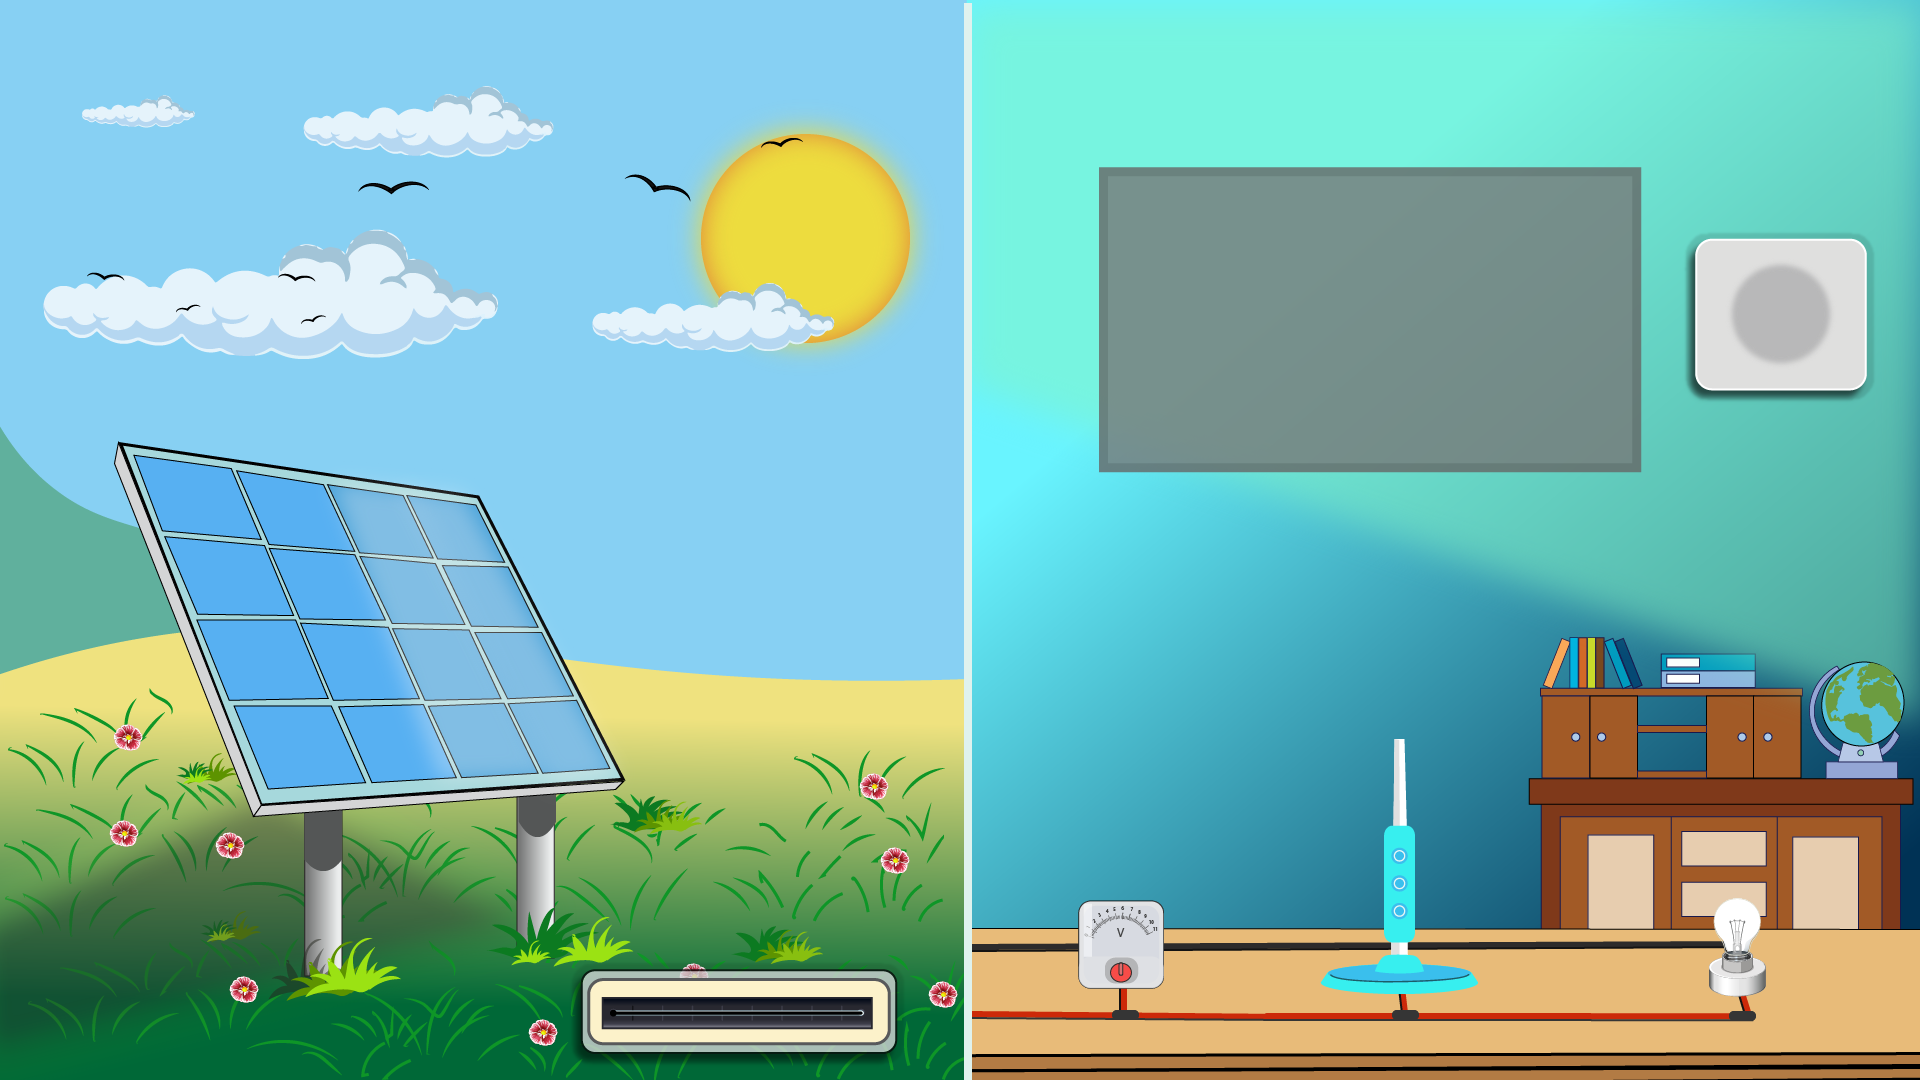
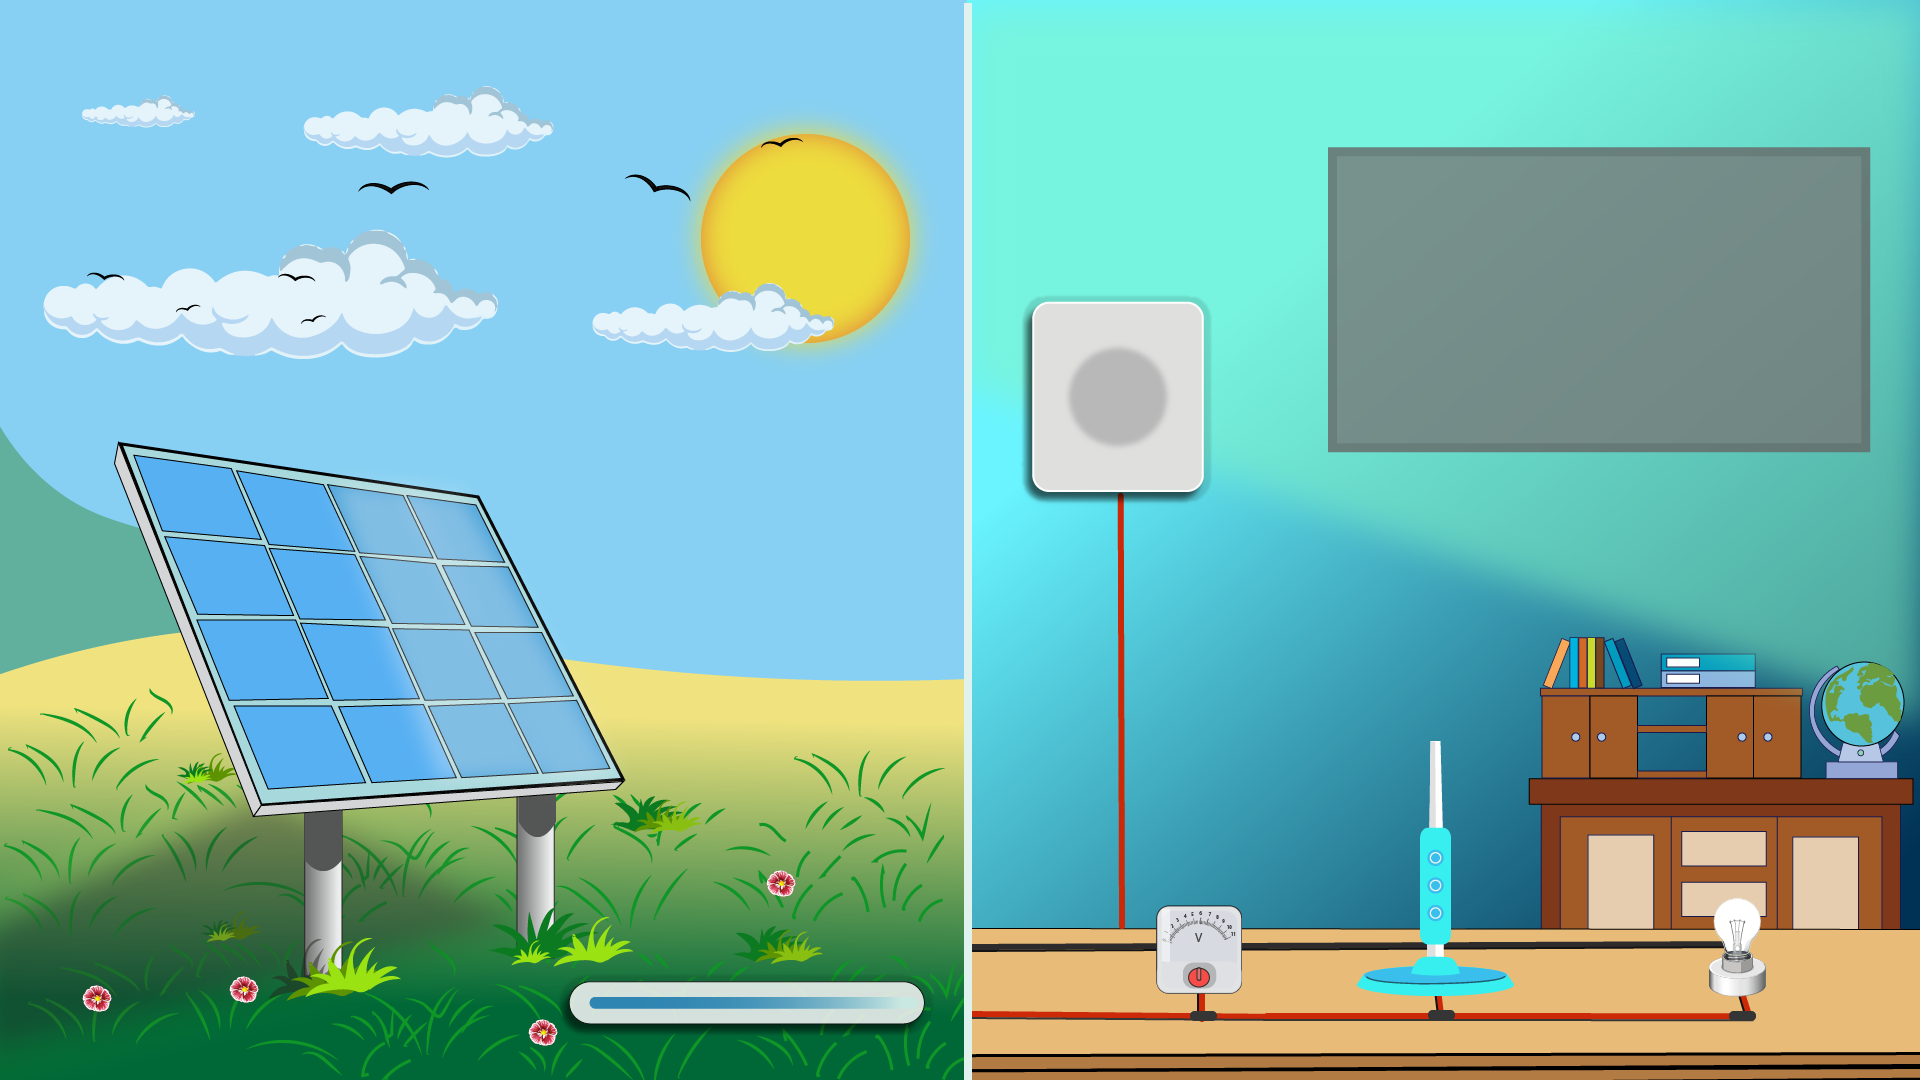
update ui

diff --git a/index.js b/index.js
@@ -6,7 +6,7 @@ frame.on("ready",()=>{
        //assets
        const bg = new Pic("assets/images/bg .png").center();
        const brightPicture = new Pic("assets/images/light.png").pos(1660,850).alp(0);
-       const fan = new Pic("assets/images/fan.png").centerReg().pos(1290,600);
+       const fan = new Pic("assets/images/fan.png").centerReg().pos(1330,600);
        //heading
        const header_rect = new Rectangle({width:W, height:120, color:"#ff7878"}).center().pos(0,0);
        const header_label = new Label (
@@ -26,7 +26,7 @@ frame.on("ready",()=>{
          rollBackgroundColor:"transparent",
          
   
-      }).center().pos(1742,270);
+      }).center().pos(1080,353);
   
       const toggolebutton = new Pic("assets/images/switch.png").center(powerBtn);
 
@@ -35,38 +35,60 @@ frame.on("ready",()=>{
    //slider for control..
    const button_slider = new Button({
        label: "",
-       width: 60,
-       height: 60,
-       backgroundColor: "red",
+       width: 75,
+       height: 75,
+       backgroundColor: "#2c67f2",
        borderWidth: 0,
        corner: 35
    }).sca(.4);
-   const slider_1 = new Slider({ 
+   const slider = new Slider({ 
        min:0,
        max:10,
        step: 1,
        currentValue: 0,
        button: button_slider,
-       barColor:"trasparent",
-
+       barColor:"",
    })
    .center()
-   .pos(610,1002).alp(1).sca(.8)
+   .pos(589,989).alp(1)
+   .change(() => {
+      zog(slider.currentValue); // 0-10 in steps of 1
+   });
   
   
 
-      powerBtn.on("click",()=>{
-         fan.animate({
-            props:{rotation:-360},
-            loop:true,
-            time:.9,
-            ease:"linear",
-            
-         })
-         brightPicture.alp(1);
+   //function
+   let toggle = false;
+   function startFan(){
+     Ticker.add(()=>{
+       fan.rotation += 10;
+       if(fan.rotation >=360){
+         fan.rotation = 0;
+       }
+     })
+   };
+ 
+   function stopFan(){
+     Ticker.add(()=>{
+       fan.rotation -= 10;
+     })
+   }
+   
+ 
+   powerBtn.on("click",()=>{
+     toggle = !toggle;
+     if(toggle){
+       brightPicture.alp(1);
+       startFan();
+     }
+     else{
+       brightPicture.alp(0);
+       stopFan();
+     }
+   })
 
 
-      })
+  
 
 
 
